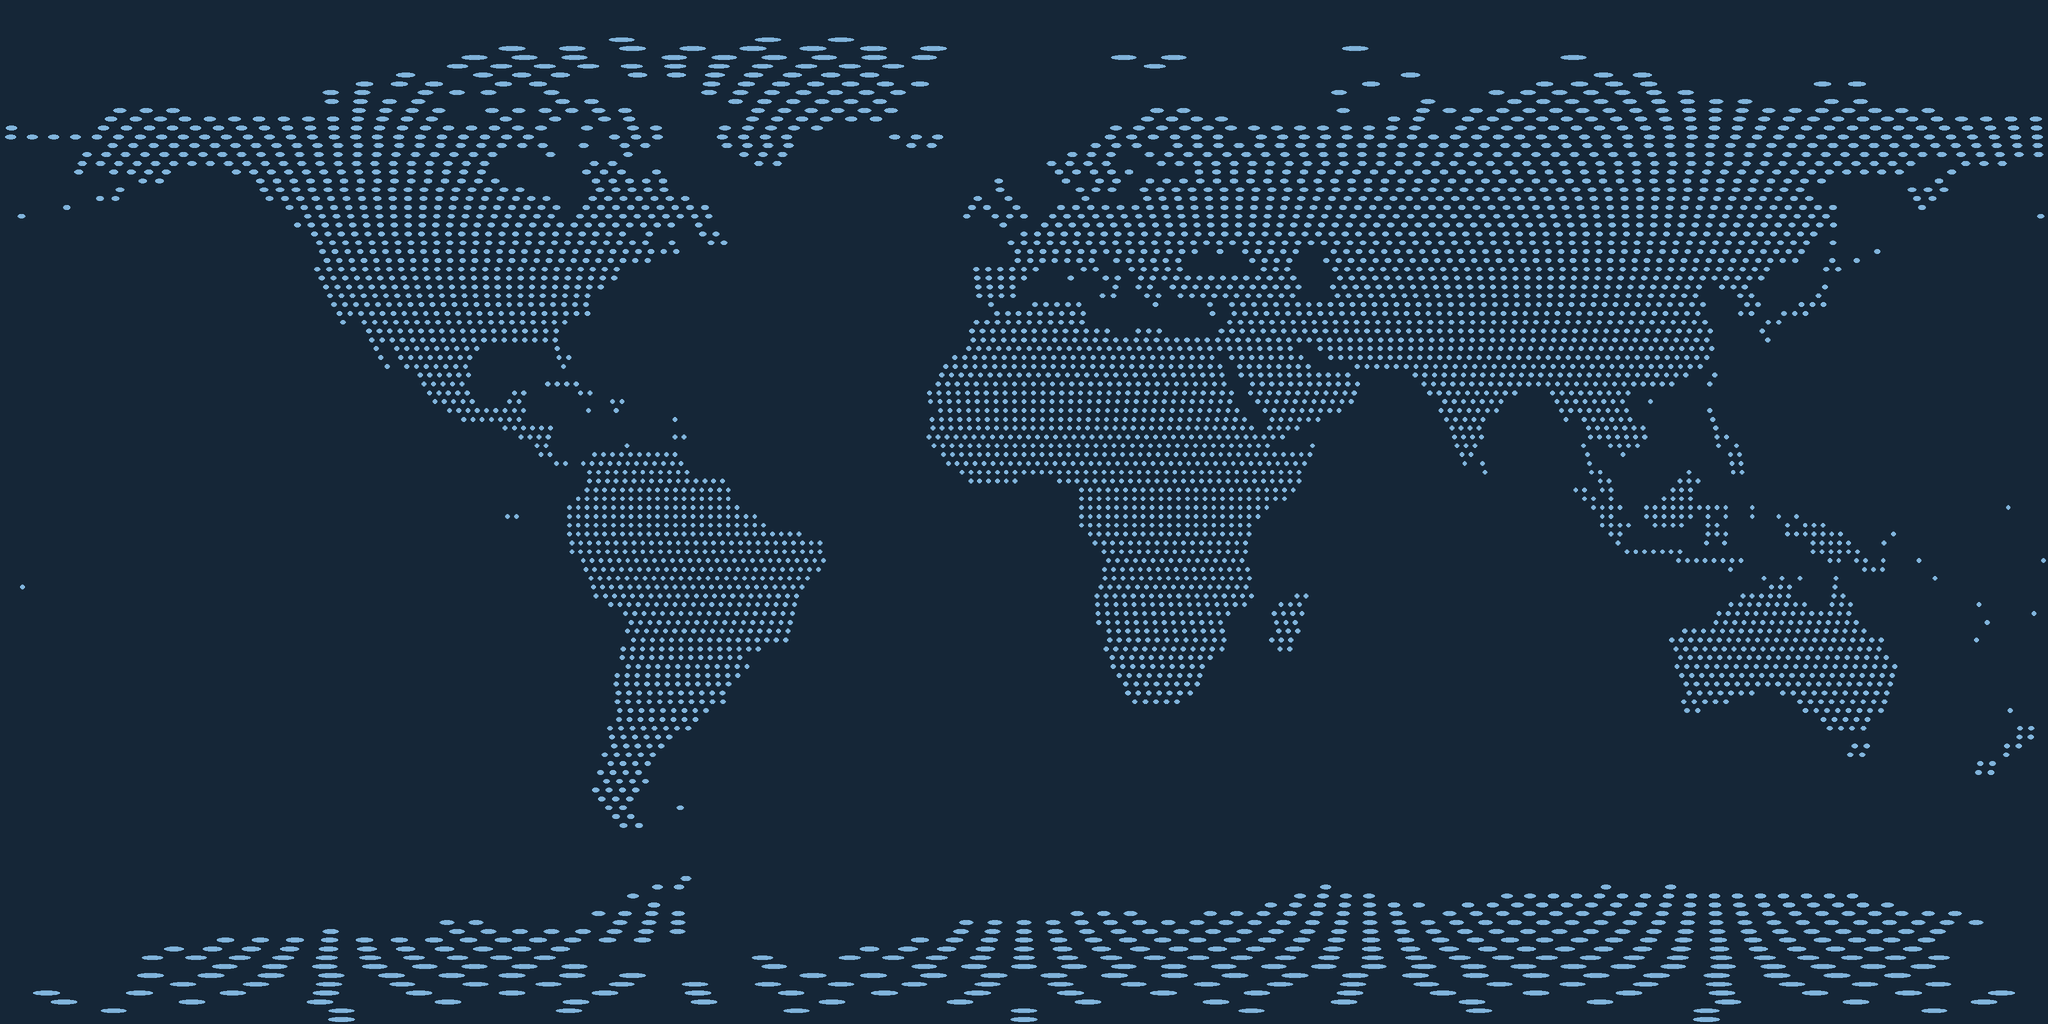
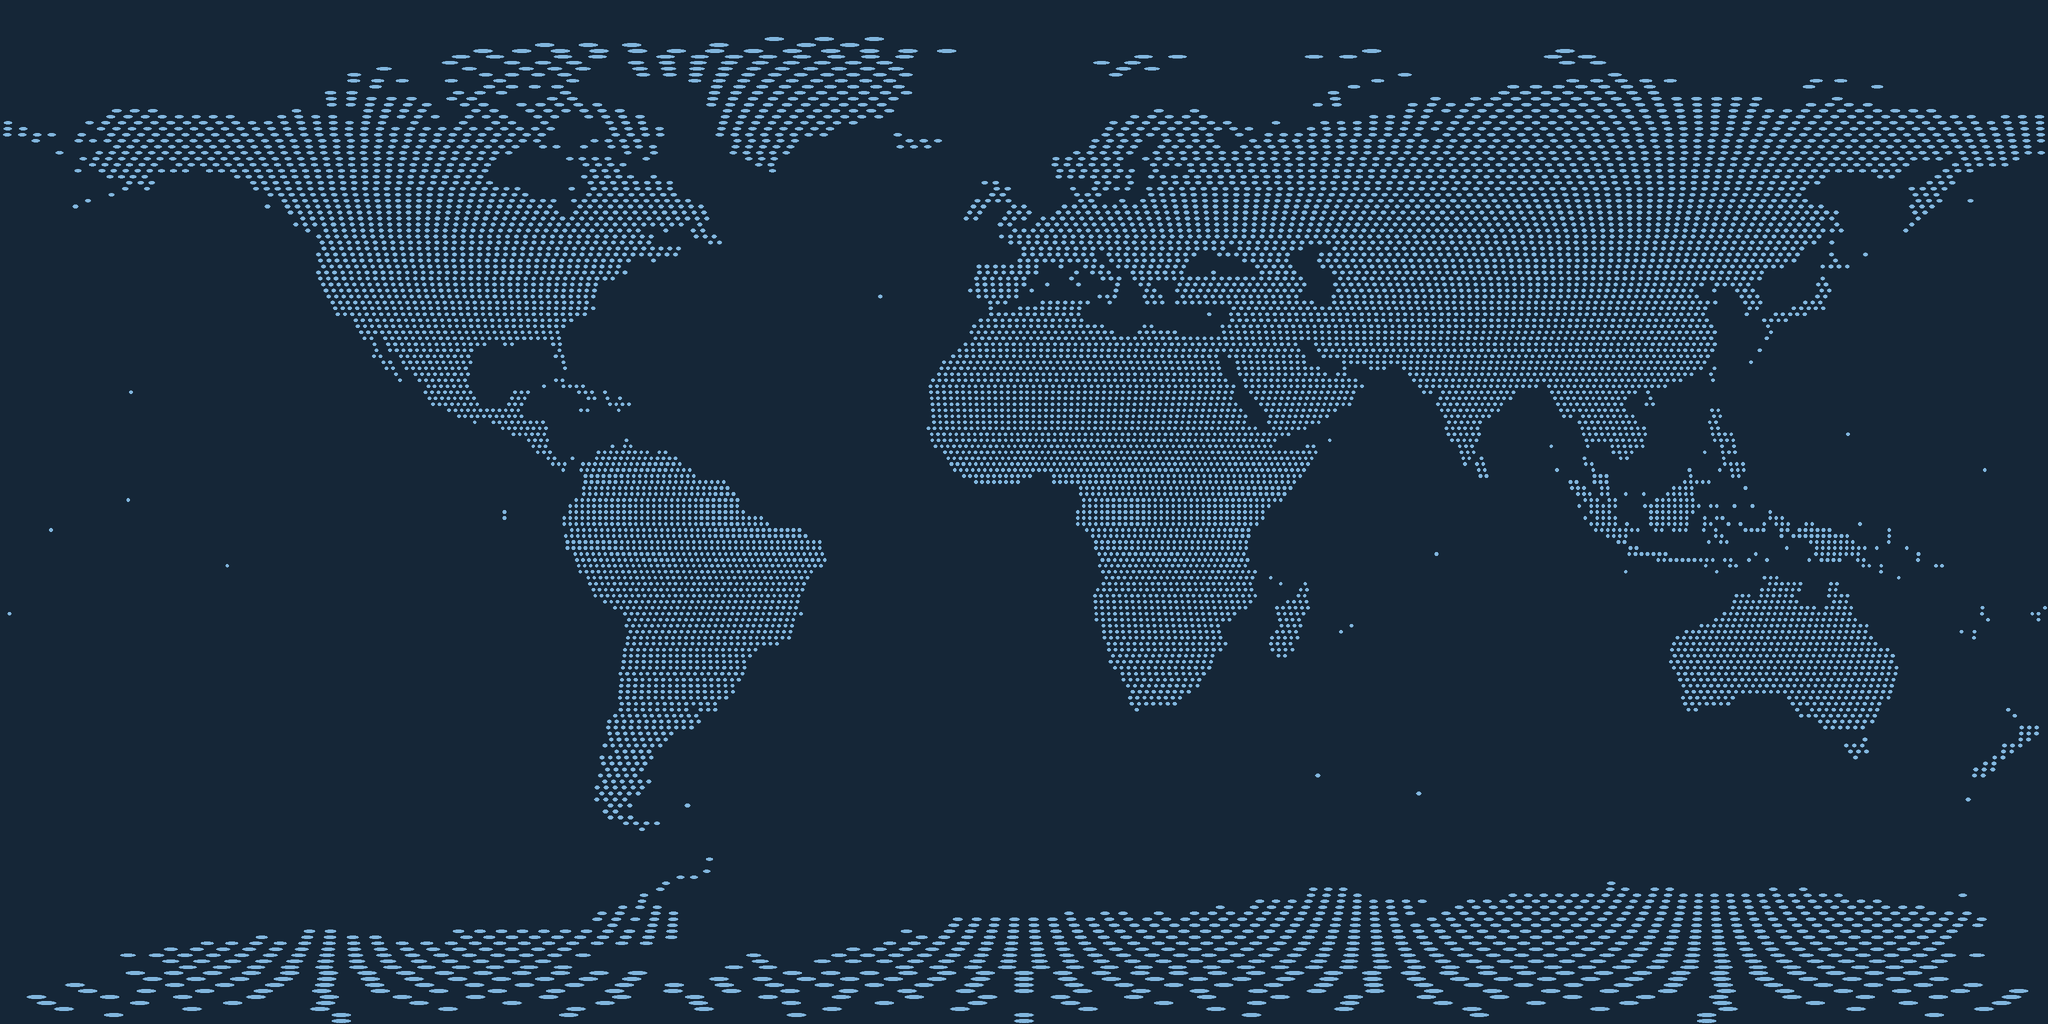
Make the visitor map's land dots finer and its bars shorter
The globe textures now have about twice as many land dots, smaller
and 1.05 degrees apart instead of 1.55. Bar heights now follow the
logarithm of a city's visits instead of being scaled to the busiest
city, so one visit makes a short bar and 1,000 visits a bar only four
times as tall.

diff --git a/assets/js/visitor-map.js b/assets/js/visitor-map.js
@@ -283,7 +283,8 @@
       .pointLng("lon")
       .pointColor(() => POINT_COLOR)
       .pointRadius((p) => 0.35 + 0.5 * Math.sqrt(p.count / maxCount))
-      .pointAltitude((p) => 0.015 + 0.09 * Math.sqrt(p.count / maxCount))
+      // Heights follow the logarithm of the visits, so 1,000 visits stand only four times as tall as one.
+      .pointAltitude((p) => Math.min(0.14, 0.02 + 0.02 * Math.log10(p.count)))
       .pointResolution(10)
       .pointsTransitionDuration(0)
       .pointLabel(pointLabel);

diff --git a/visitor-stats/scripts/make_land_dots.py b/visitor-stats/scripts/make_land_dots.py
@@ -14,8 +14,8 @@ from PIL import Image, ImageDraw
 
 W, H = 2048, 1024  # output size
 SS = 2  # supersampling for smooth dots
-STEP = 1.55  # degrees between dots along a meridian
-RADIUS = 2.2  # dot radius in output pixels, at the equator
+STEP = 1.05  # degrees between dots along a meridian (about 6 output pixels)
+RADIUS = 1.6  # dot radius in output pixels, at the equator
 
 PALETTES = {
     # name: (ocean, land dot)
